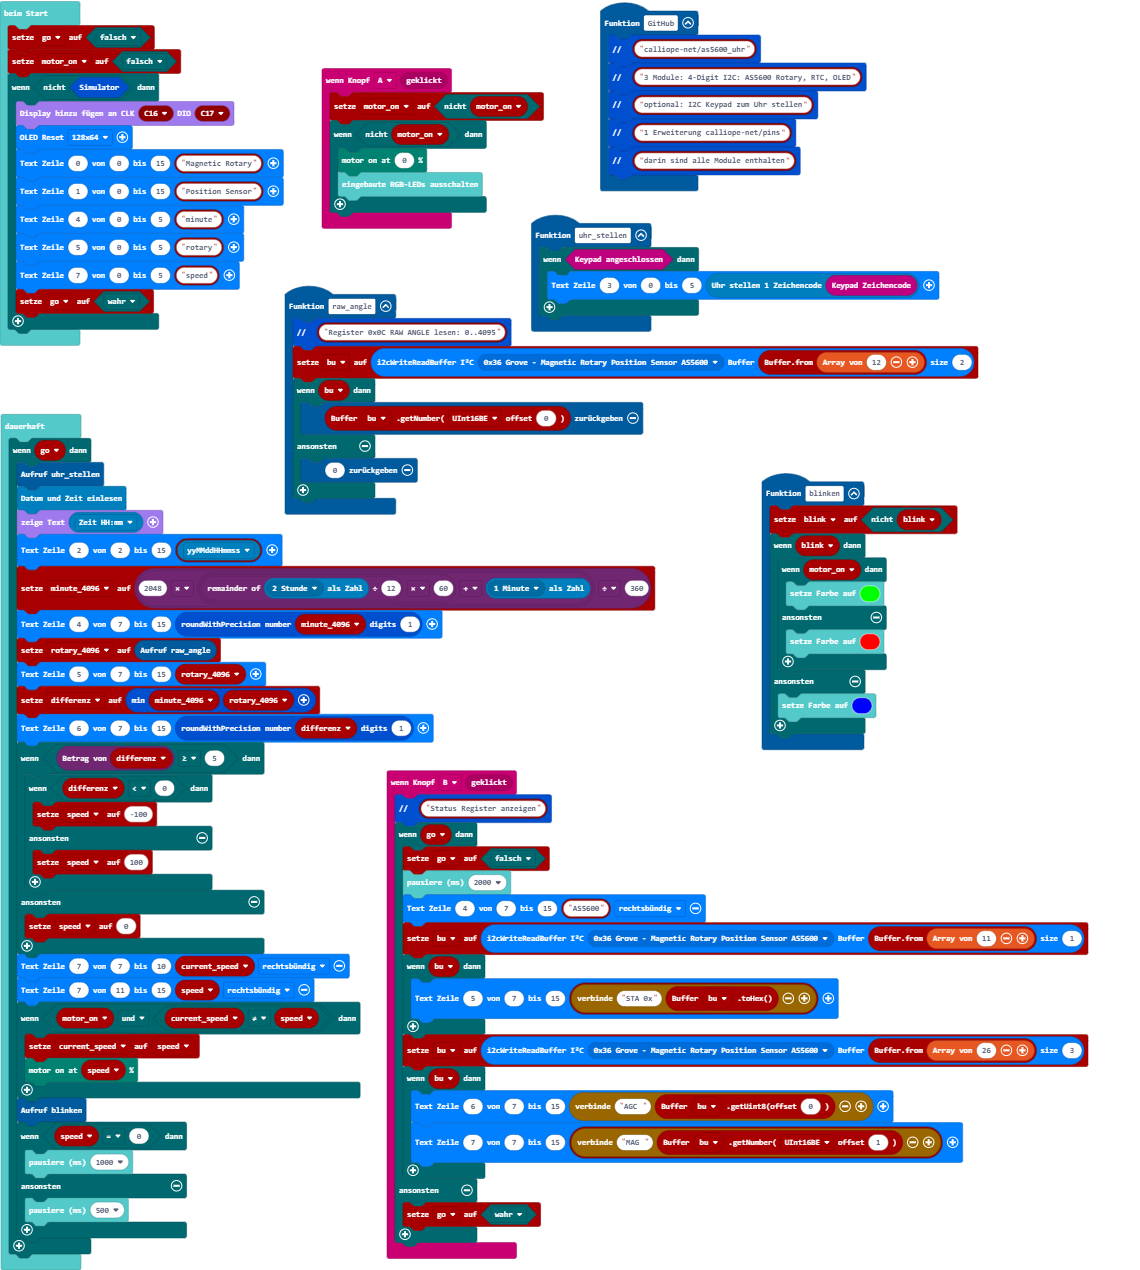
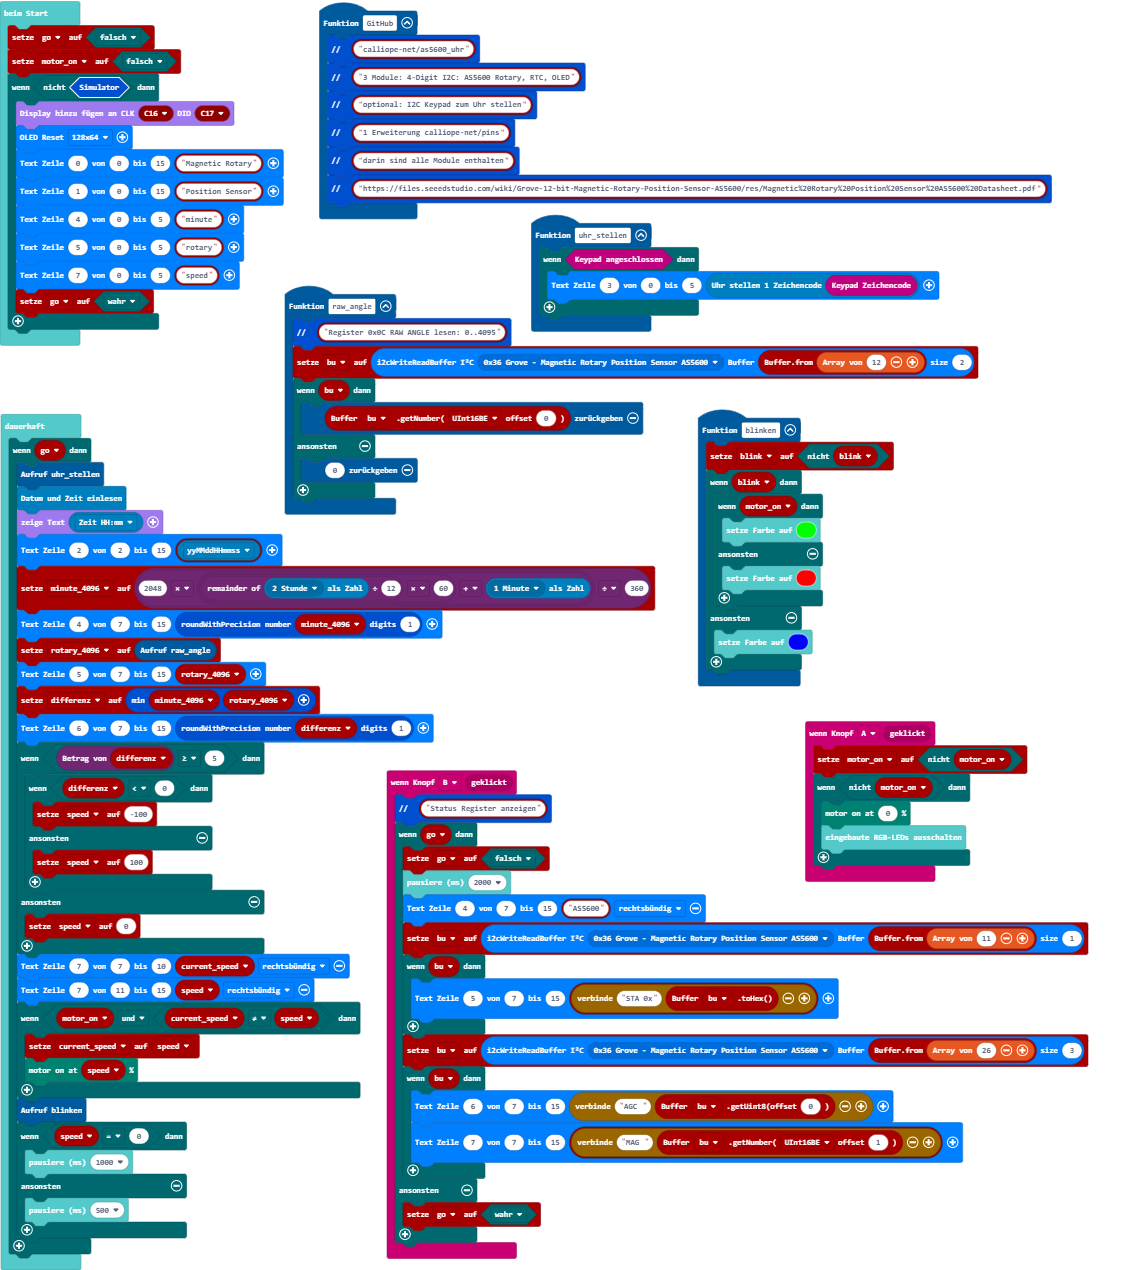
Aktualisiere main.blocks, main.ts

Changed region(s): [[0.2763, 0.0, 0.9211, 0.1843], [0.614, 0.3071, 0.9211, 0.7063]]

diff --git a/main.ts b/main.ts
@@ -4,6 +4,7 @@ function GitHub () {
     pins.comment(pins.pins_text("optional: I2C Keypad zum Uhr stellen"))
     pins.comment(pins.pins_text("1 Erweiterung calliope-net/pins"))
     pins.comment(pins.pins_text("darin sind alle Module enthalten"))
+    pins.comment(pins.pins_text("https://files.seeedstudio.com/wiki/Grove-12-bit-Magnetic-Rotary-Position-Sensor-AS5600/res/Magnetic%20Rotary%20Position%20Sensor%20AS5600%20Datasheet.pdf"))
 }
 input.onButtonEvent(Button.A, input.buttonEventClick(), function () {
     motor_on = !(motor_on)
